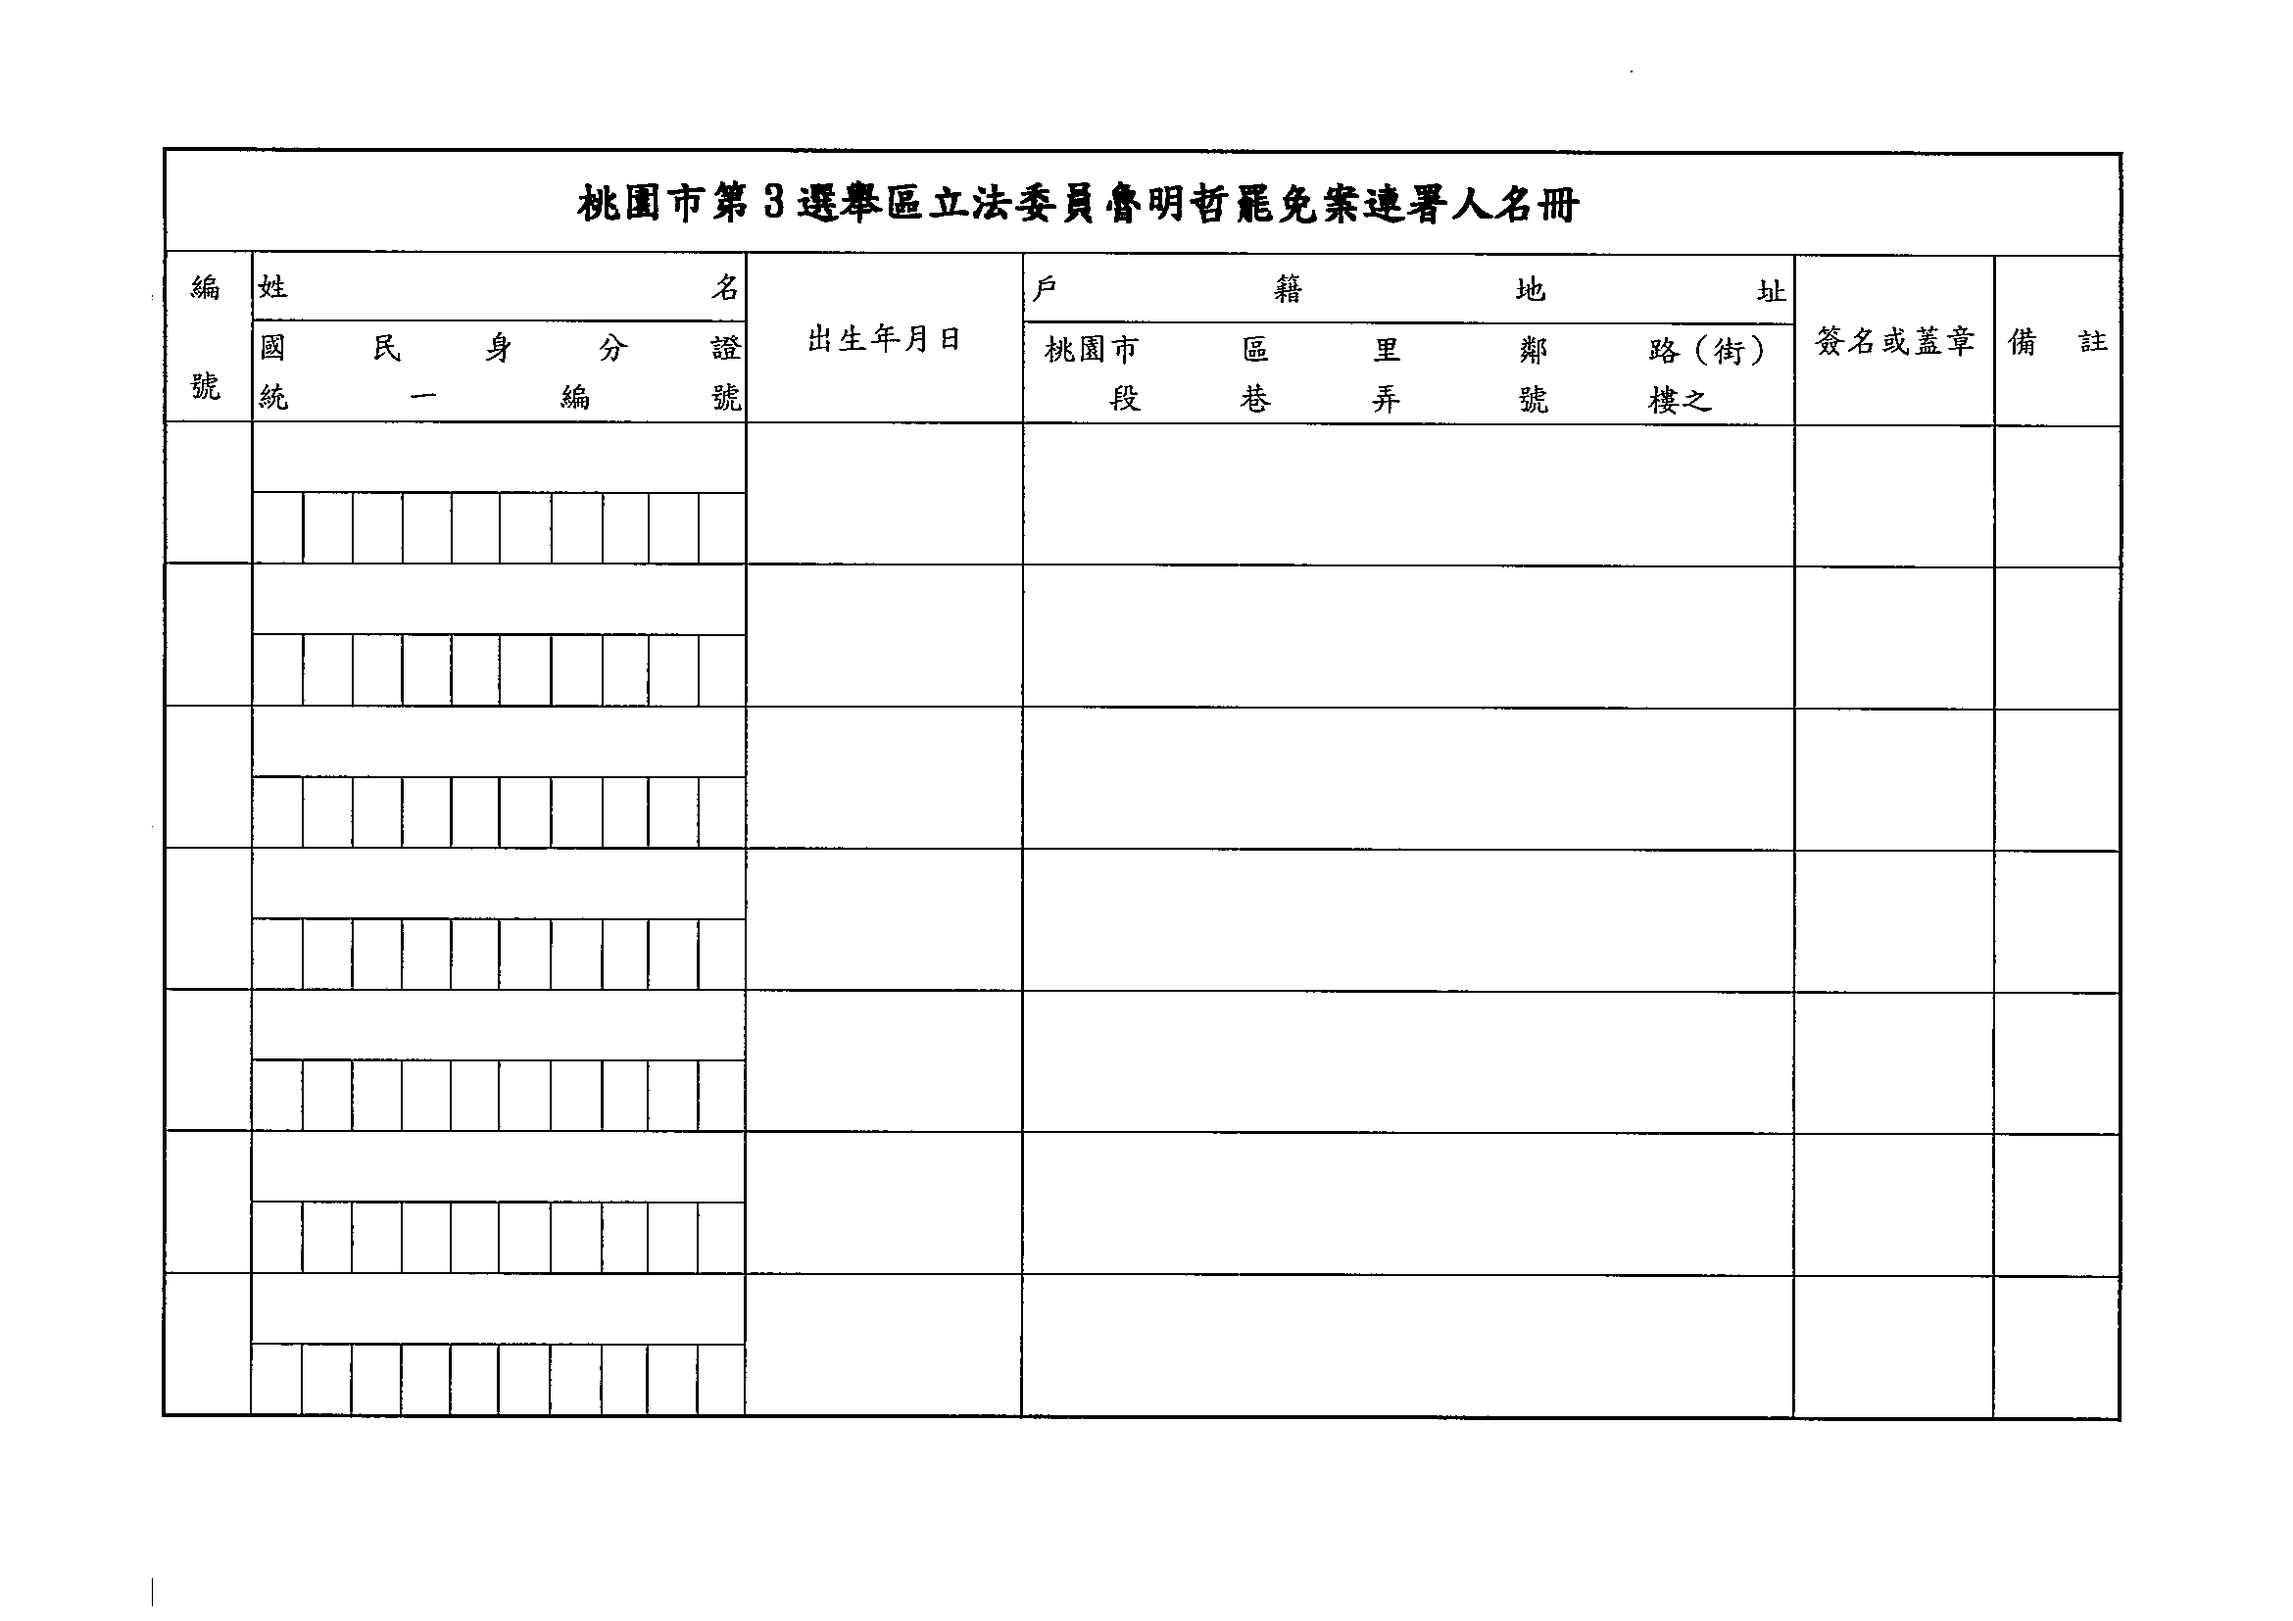
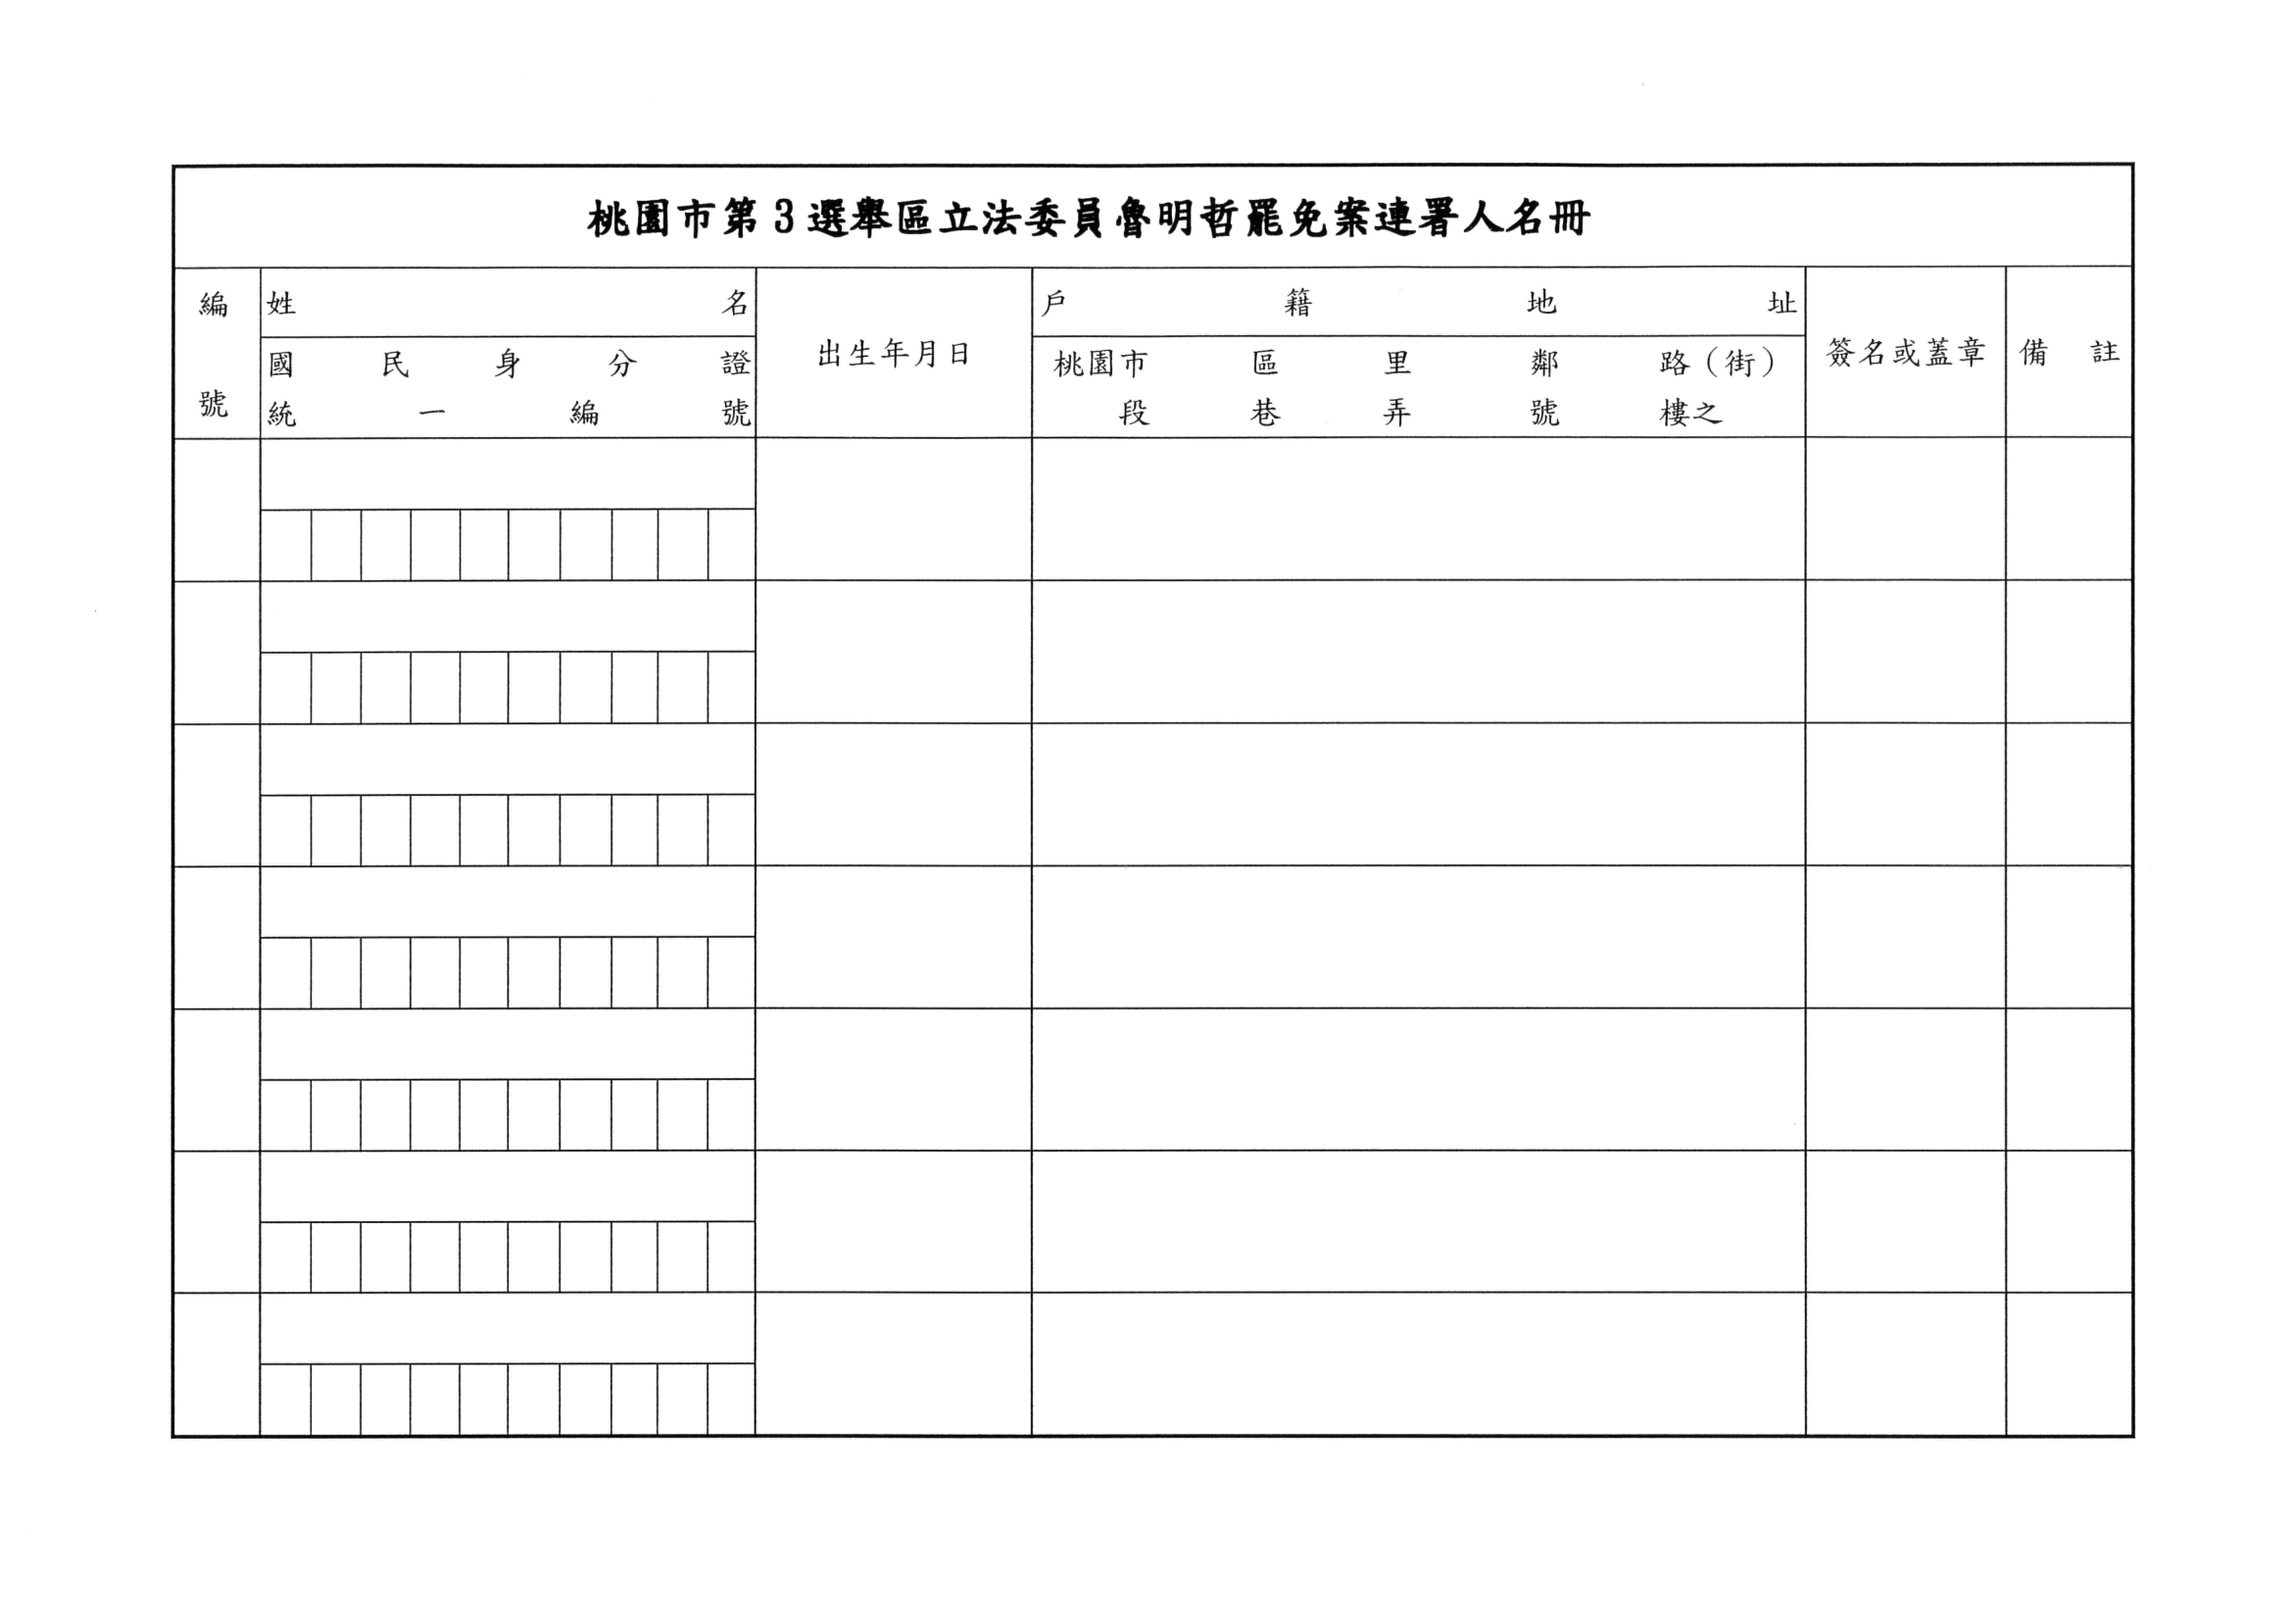
update taoyuan-3 form

diff --git a/templates/stage-2-魯明哲.html b/templates/stage-2-魯明哲.html
@@ -10,19 +10,19 @@
 		<div class="img-container">
 			<img src="{{.BaseURL}}/assets/images/stage-2-{{.PoliticianName}}.png">
 		</div>
-		<div class="inputField center md" style="left:22.4%; top:25.8%; letter-spacing:0.73em">
+		<div class="inputField center md" style="left:22.8%; top:26.8%; letter-spacing:0.73em">
 			{{.Name}}
 		</div>
-		<div class="inputField center md" style="left:22.4%; top:30.2%; letter-spacing:0.72em">
+		<div class="inputField center md" style="left:22.8%; top:31.5%; letter-spacing:0.72em">
 			{{.IdNumber.D0}}{{.IdNumber.D1}}{{.IdNumber.D2}}{{.IdNumber.D3}}{{.IdNumber.D4}}{{.IdNumber.D5}}{{.IdNumber.D6}}{{.IdNumber.D7}}{{.IdNumber.D8}}{{.IdNumber.D9}}
 		</div>
-		<div class="inputField center sm" style="left:38.5%; top:29.3%; letter-spacing:0.02em">
+		<div class="inputField center sm" style="left:39.2%; top:30.2%; letter-spacing:0.02em">
 			{{.BirthYear}} 年 {{.BirthMonth}} 月 {{.BirthDate}} 日
 		</div>
-		<div class="inputField center xsm" style="left:61.5%; top:18.3%; width:33%; height:25%;">
+		<div class="inputField center xsm" style="left:62%; top:18.8%; width:33%; height:25%;">
 			{{.Address}}
 		</div>
-		<div class="whereToSign" style="left:82.6%; top:30.7%; width:7.7%; height:7.4%;"></div>
+		<div class="whereToSign" style="left:83.1%; top:31.4%; width:7.7%; height:7.4%;"></div>
 	</div>
 </body>
 </html>
